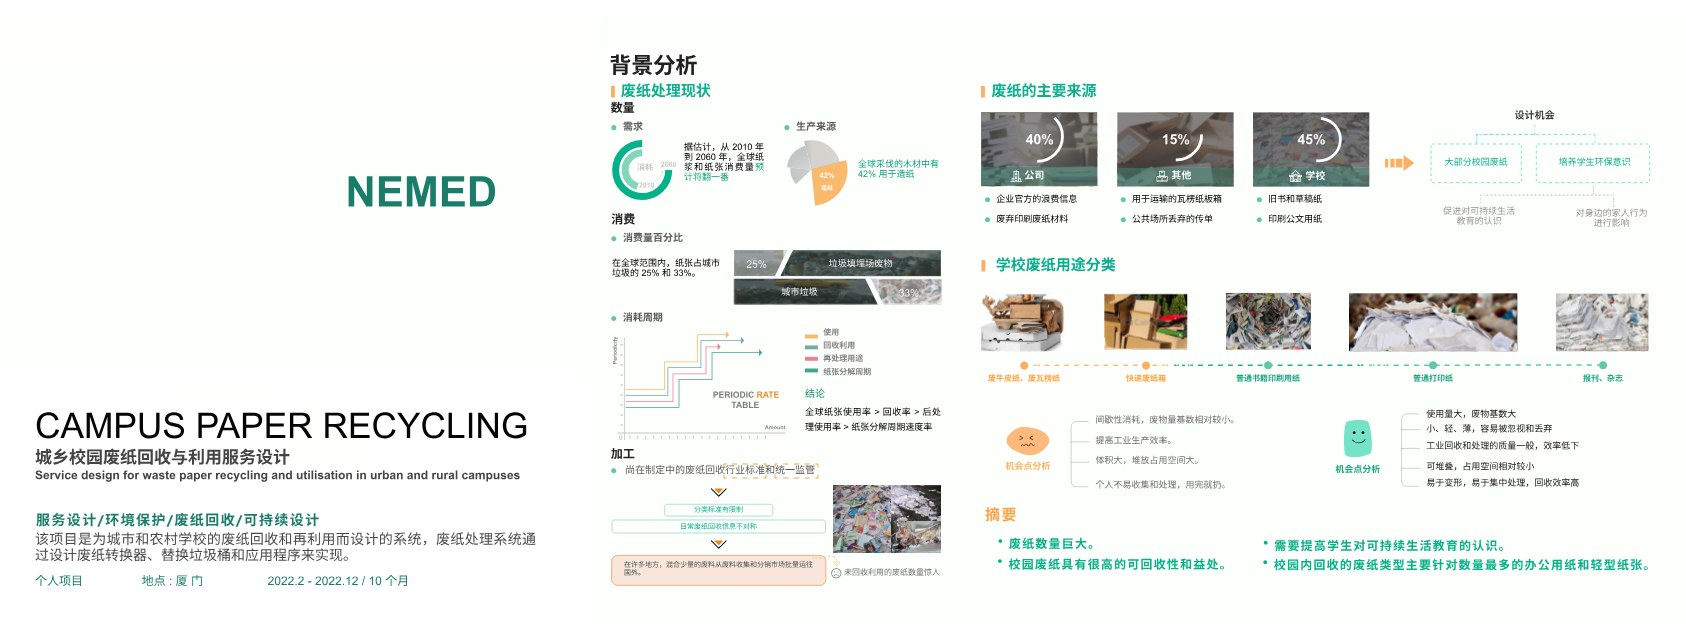
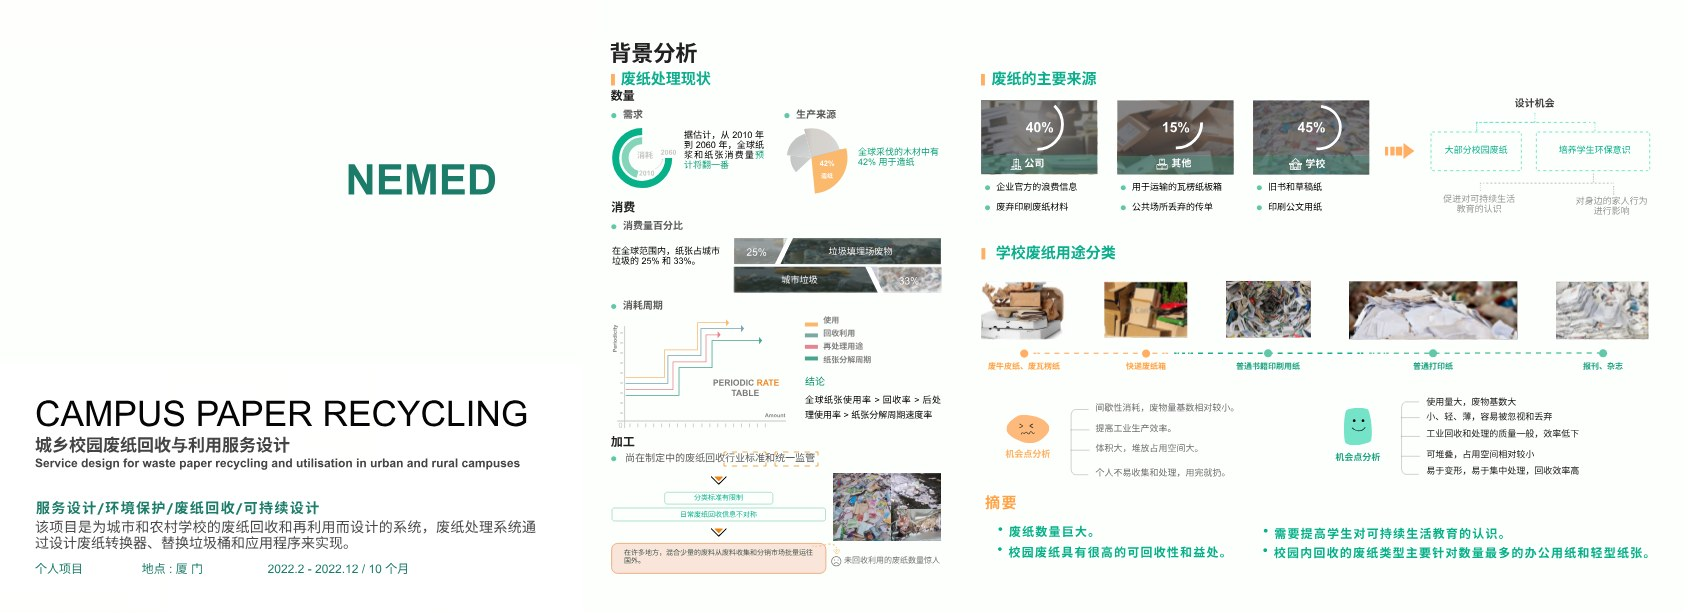
作品合集：用新版 SVG 重新导出全部页面图
- 新版画板为 4 列 × 6 行，第 6 行已有实际内容，每个项目由 5 页增至 6 页
- 改用浏览器读取页面矩形定位，替换原先的像素带猜测，24 页裁切精确对齐
- 主图与缩略图宽高比同步为 1701/613，竖屏 6 张缩略图排成单行并避让翻页按钮
- 桌面缩略图宽度收到 30%，与右下角翻页按钮留出间距

diff --git a/public/replica/css/layout.css b/public/replica/css/layout.css
@@ -2937,7 +2937,7 @@ footer .contact .label{color:#000;font-size:1.0417vw;font-weight:400;margin-righ
 .wi-tags{display:flex;flex-wrap:nowrap;justify-content:flex-end;gap:0.3vw;}
 .unit_plan.work-index ul li button .wi-tags i{font-style:normal;font-size:0.62vw;color:#3a3a3a;line-height:1.2;
 	border:1px solid rgba(0,0,0,0.16);border-radius:0.9vw;padding:0.2vw 0.52vw;white-space:nowrap;}
-.unit_plan.work-index ul li button .wi-thumb{width:8.2vw;aspect-ratio:1723/635;overflow:hidden;background:#eee;border-radius:0.1vw;}
+.unit_plan.work-index ul li button .wi-thumb{width:8.2vw;aspect-ratio:1701/613;overflow:hidden;background:#eee;border-radius:0.1vw;}
 .wi-thumb img{display:block;width:100%;height:100%;object-fit:cover;transition:0.6s;}
 .unit_plan.work-index ul li button .wi-arrow{display:block;width:1.4vw;height:1.4vw;color:#000;opacity:0;
 	transform:translateX(-40%);transition:0.35s;}
@@ -2965,12 +2965,12 @@ footer .contact .label{color:#000;font-size:1.0417vw;font-weight:400;margin-righ
 .wd-meta em{font-style:normal;color:#9c9c9c;flex:none;width:2.3vw;}
 .wd-meta span{color:#333;}
 
-.wd-stage{width:100%;aspect-ratio:1723/635;background:#F2F2F2;overflow:hidden;}
+.wd-stage{width:100%;aspect-ratio:1701/613;background:#F2F2F2;overflow:hidden;}
 .wd-main{display:block;width:100%;height:100%;object-fit:cover;}
 .wd-thumbs{display:flex;flex-wrap:wrap;align-items:flex-start;gap:0.42vw;margin-top:0.6vw;}
-.wd-thumbs button{flex:0 0 31.4%;padding:0;border:none;background:#F2F2F2;line-height:0;
+.wd-thumbs button{flex:0 0 30%;padding:0;border:none;background:#F2F2F2;line-height:0;
 	cursor:pointer;overflow:hidden;opacity:0.5;transition:0.3s;outline:0 solid #000;}
-.wd-thumbs button img{display:block;width:100%;height:auto;aspect-ratio:1723/635;object-fit:cover;}
+.wd-thumbs button img{display:block;width:100%;height:auto;aspect-ratio:1701/613;object-fit:cover;}
 .wd-thumbs button:hover{opacity:0.85;}
 .wd-thumbs button.on{opacity:1;outline:0.11vw solid #000;outline-offset:0.06vw;}
 
@@ -3034,10 +3034,10 @@ footer .contact .label{color:#000;font-size:1.0417vw;font-weight:400;margin-righ
 	.wd-meta li{font-size:1.45vw;gap:1.2vw;}
 	.wd-meta em{width:4vw;font-size:1.45vw;}
 	.wd-meta span{font-size:1.45vw;}
-	.wd-stage{flex:1;min-height:0;aspect-ratio:auto;}
-	.wd-main{object-fit:contain;}
-	.wd-thumbs{gap:0.8vw;margin-top:1.2vw;}
-	.wd-thumbs button{flex:0 0 18.6%;}
+	.wd-stage{flex:none;min-height:0;aspect-ratio:1701/613;}
+	.wd-main{object-fit:cover;}
+	.wd-thumbs{gap:0.8vw;margin-top:1.2vw;width:calc(100% - 10.5vw);}
+	.wd-thumbs button{flex:0 0 15.4%;}
 	.line.type150{display:none;}
 }
 
@@ -3238,7 +3238,7 @@ footer .contact .label{color:#000;font-size:1.0417vw;font-weight:400;margin-righ
 	/* 栏目 4 详情页：主图按原比例显示，避免上下出现大片灰边 */
 	.work-detail .lef{padding:3.4vw 6vw 2.4vw;}
 	.work-detail .rig{padding:0 6vw 3.4vw;}
-	.wd-stage{flex:none;aspect-ratio:1723/635;}
+	.wd-stage{flex:none;aspect-ratio:1701/613;}
 	.wd-main{object-fit:cover;}
 	.wd-thumbs{margin-top:2.6vw;}
 	.wd-desc{font-size:2.9vw;line-height:1.62;}

diff --git a/public/replica/index.html b/public/replica/index.html
@@ -1124,6 +1124,7 @@ $(function() {
 													<button data-src="images/work/paperverse-3.jpg"><img src="images/work/paperverse-3.jpg" alt=""></button>
 													<button data-src="images/work/paperverse-4.jpg"><img src="images/work/paperverse-4.jpg" alt=""></button>
 													<button data-src="images/work/paperverse-5.jpg"><img src="images/work/paperverse-5.jpg" alt=""></button>
+													<button data-src="images/work/paperverse-6.jpg"><img src="images/work/paperverse-6.jpg" alt=""></button>
 													</div>
 												</div>
 											</div>
@@ -1157,6 +1158,7 @@ $(function() {
 													<button data-src="images/work/carbon-3.jpg"><img src="images/work/carbon-3.jpg" alt=""></button>
 													<button data-src="images/work/carbon-4.jpg"><img src="images/work/carbon-4.jpg" alt=""></button>
 													<button data-src="images/work/carbon-5.jpg"><img src="images/work/carbon-5.jpg" alt=""></button>
+													<button data-src="images/work/carbon-6.jpg"><img src="images/work/carbon-6.jpg" alt=""></button>
 													</div>
 												</div>
 											</div>
@@ -1190,6 +1192,7 @@ $(function() {
 													<button data-src="images/work/radlevel-3.jpg"><img src="images/work/radlevel-3.jpg" alt=""></button>
 													<button data-src="images/work/radlevel-4.jpg"><img src="images/work/radlevel-4.jpg" alt=""></button>
 													<button data-src="images/work/radlevel-5.jpg"><img src="images/work/radlevel-5.jpg" alt=""></button>
+													<button data-src="images/work/radlevel-6.jpg"><img src="images/work/radlevel-6.jpg" alt=""></button>
 													</div>
 												</div>
 											</div>
@@ -1223,6 +1226,7 @@ $(function() {
 													<button data-src="images/work/nemed-3.jpg"><img src="images/work/nemed-3.jpg" alt=""></button>
 													<button data-src="images/work/nemed-4.jpg"><img src="images/work/nemed-4.jpg" alt=""></button>
 													<button data-src="images/work/nemed-5.jpg"><img src="images/work/nemed-5.jpg" alt=""></button>
+													<button data-src="images/work/nemed-6.jpg"><img src="images/work/nemed-6.jpg" alt=""></button>
 													</div>
 												</div>
 											</div>
